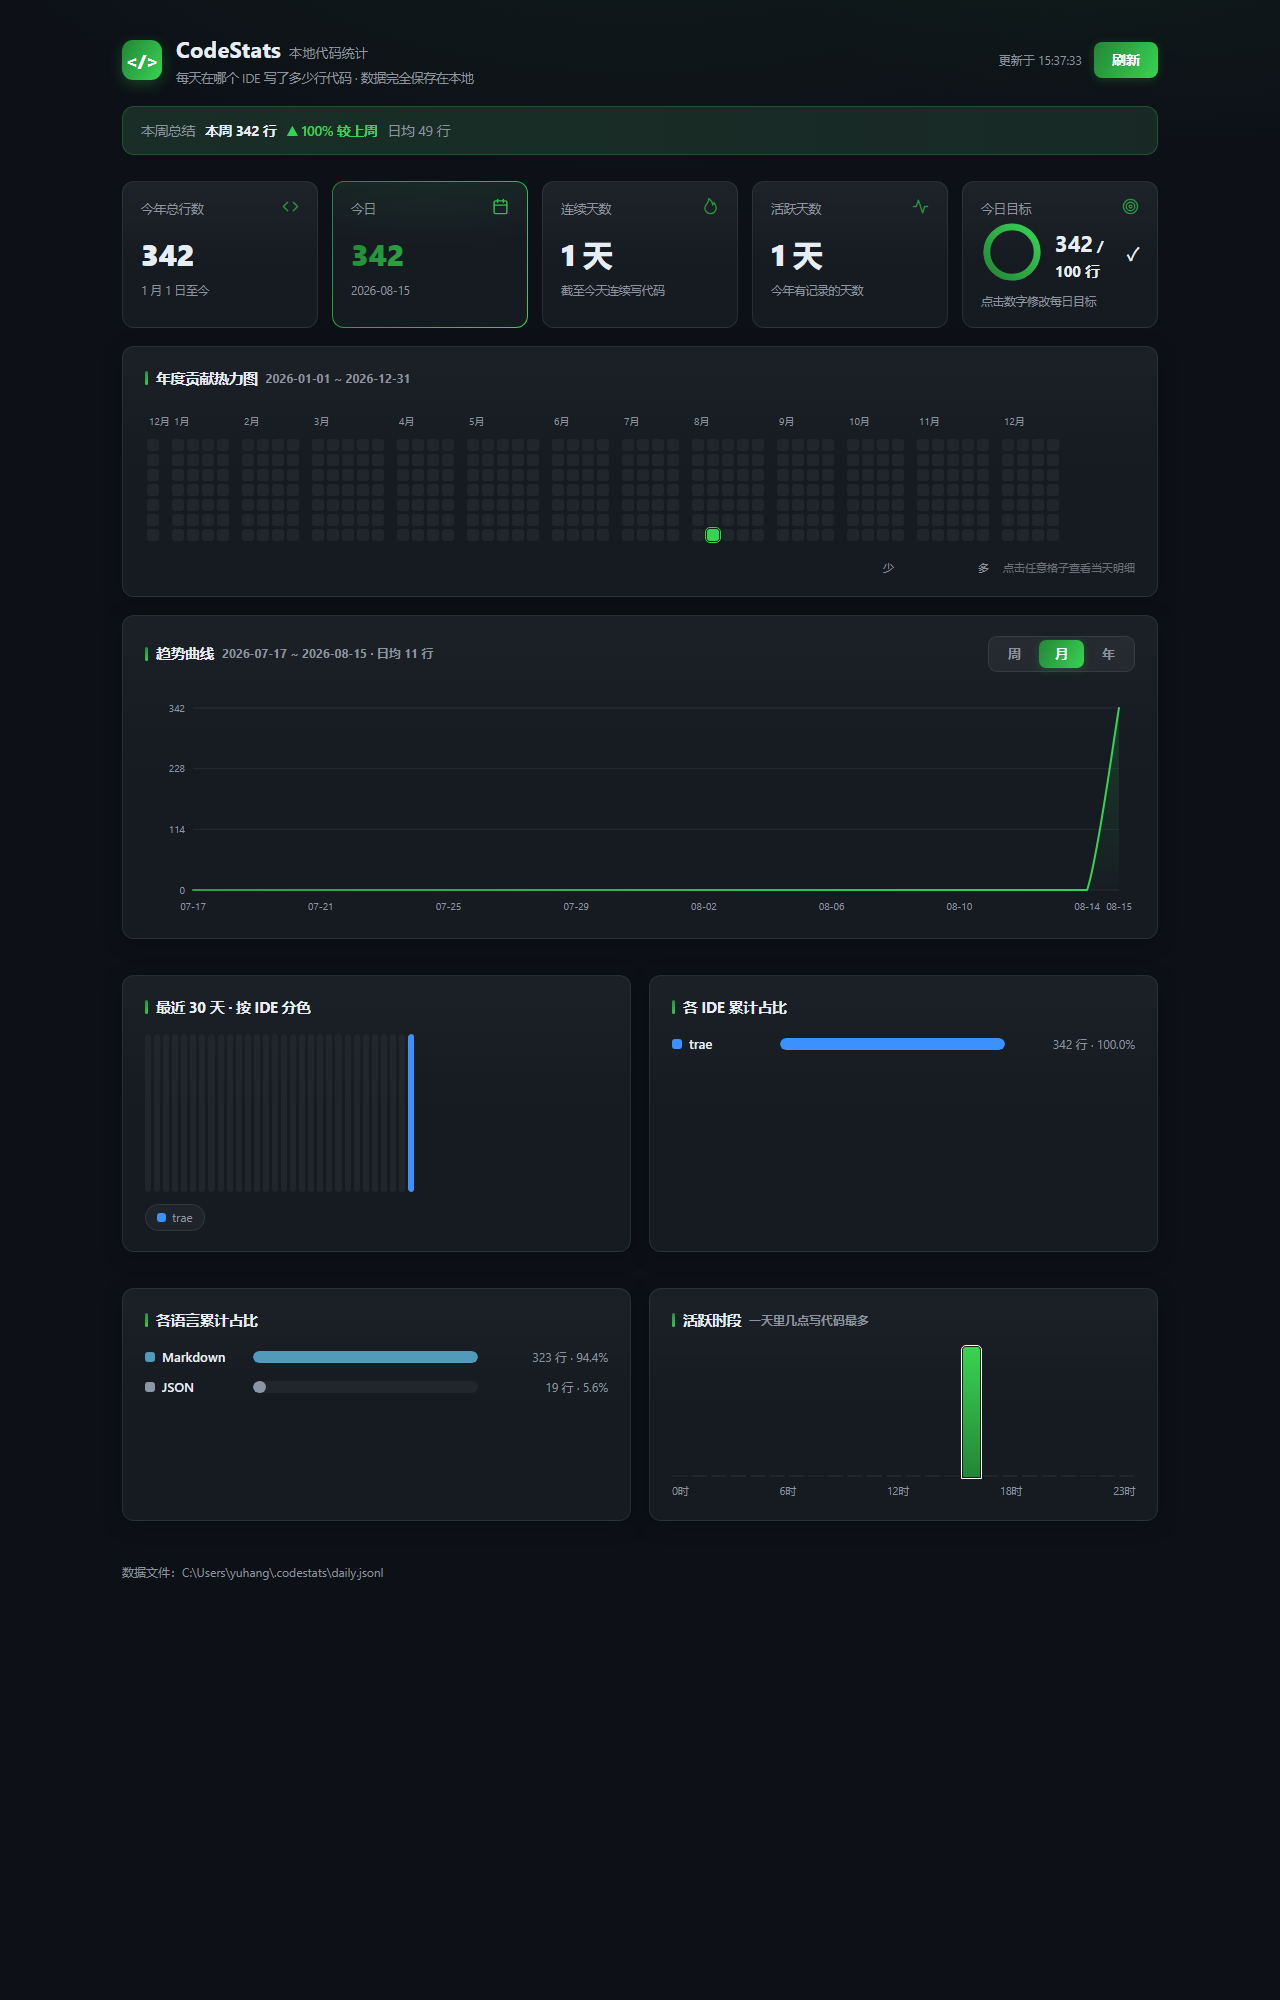
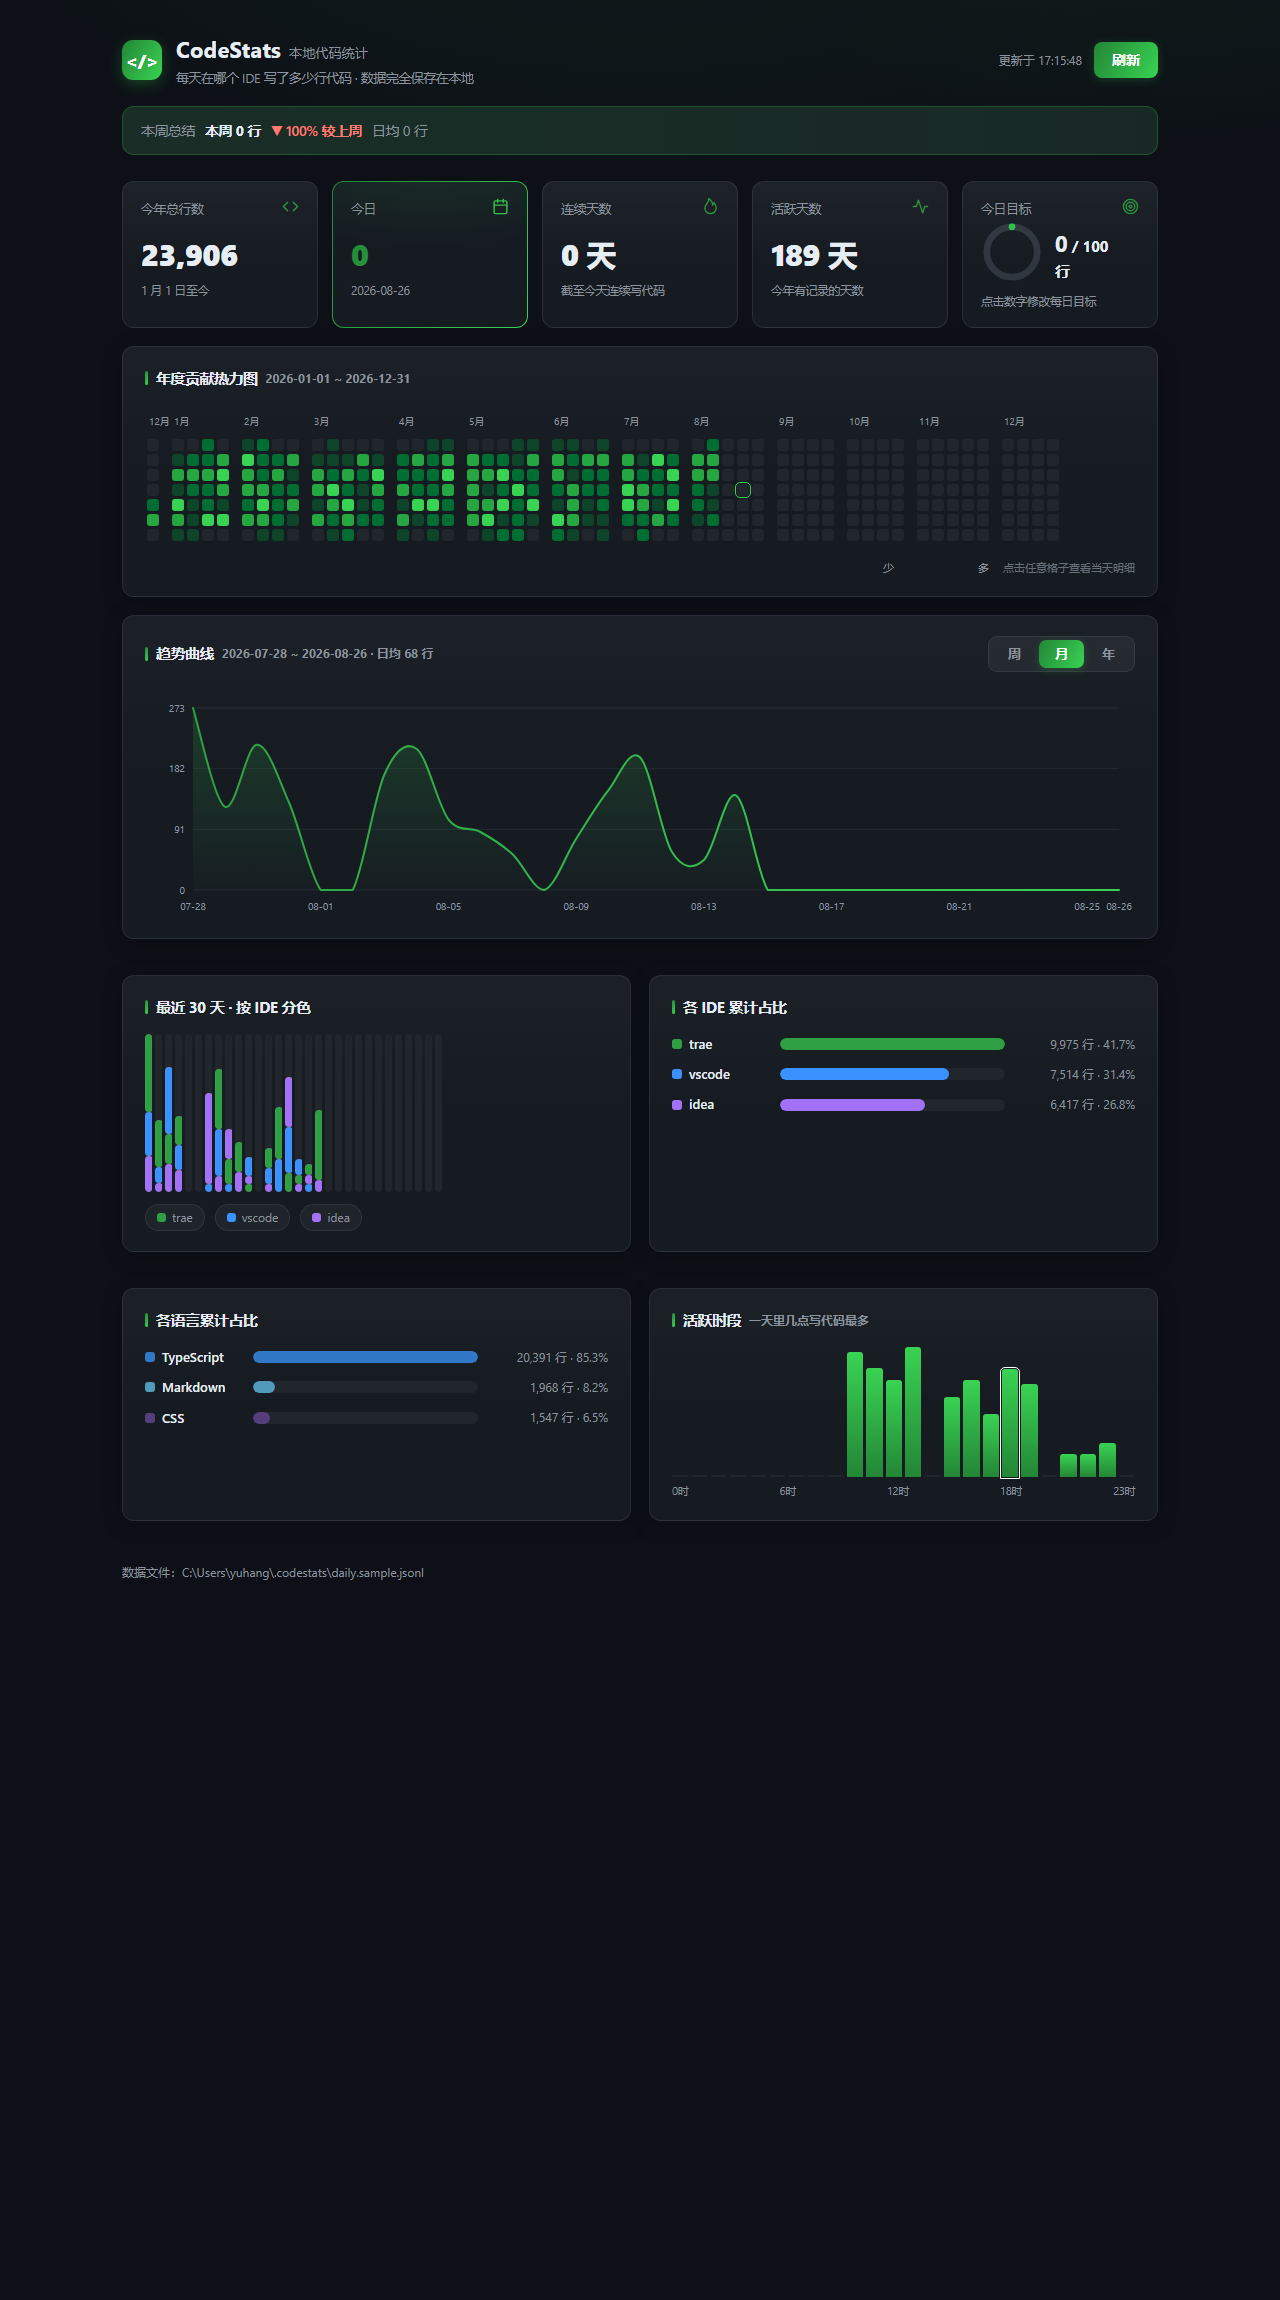
style: IDE 分色调整——trae 绿 / vscode 蓝 / intellij 紫
- trae #2ea043（绿）、vscode #3b91ff（蓝）、idea/intellij #a371f7（紫）
- 新增 intellij 颜色别名，兼容不同数据命名

diff --git a/extension/webview/app.js b/extension/webview/app.js
@@ -12,10 +12,11 @@ window.CodeStatsAPI = window.CodeStatsAPI || {
 }
 
 const IDE_COLORS = {
-  trae: '#3b91ff',
-  vscode: '#5aa9ff',
+  trae: '#2ea043',        // 绿
+  vscode: '#3b91ff',      // 蓝
   cursor: '#7c7f8f',
-  idea: '#ff8c3b',
+  idea: '#a371f7',        // 紫（IntelliJ IDEA）
+  intellij: '#a371f7',    // 紫（别名，兼容不同命名）
   webstorm: '#3bd6ff',
   pycharm: '#3bff9e',
   goland: '#3bd0ff',
